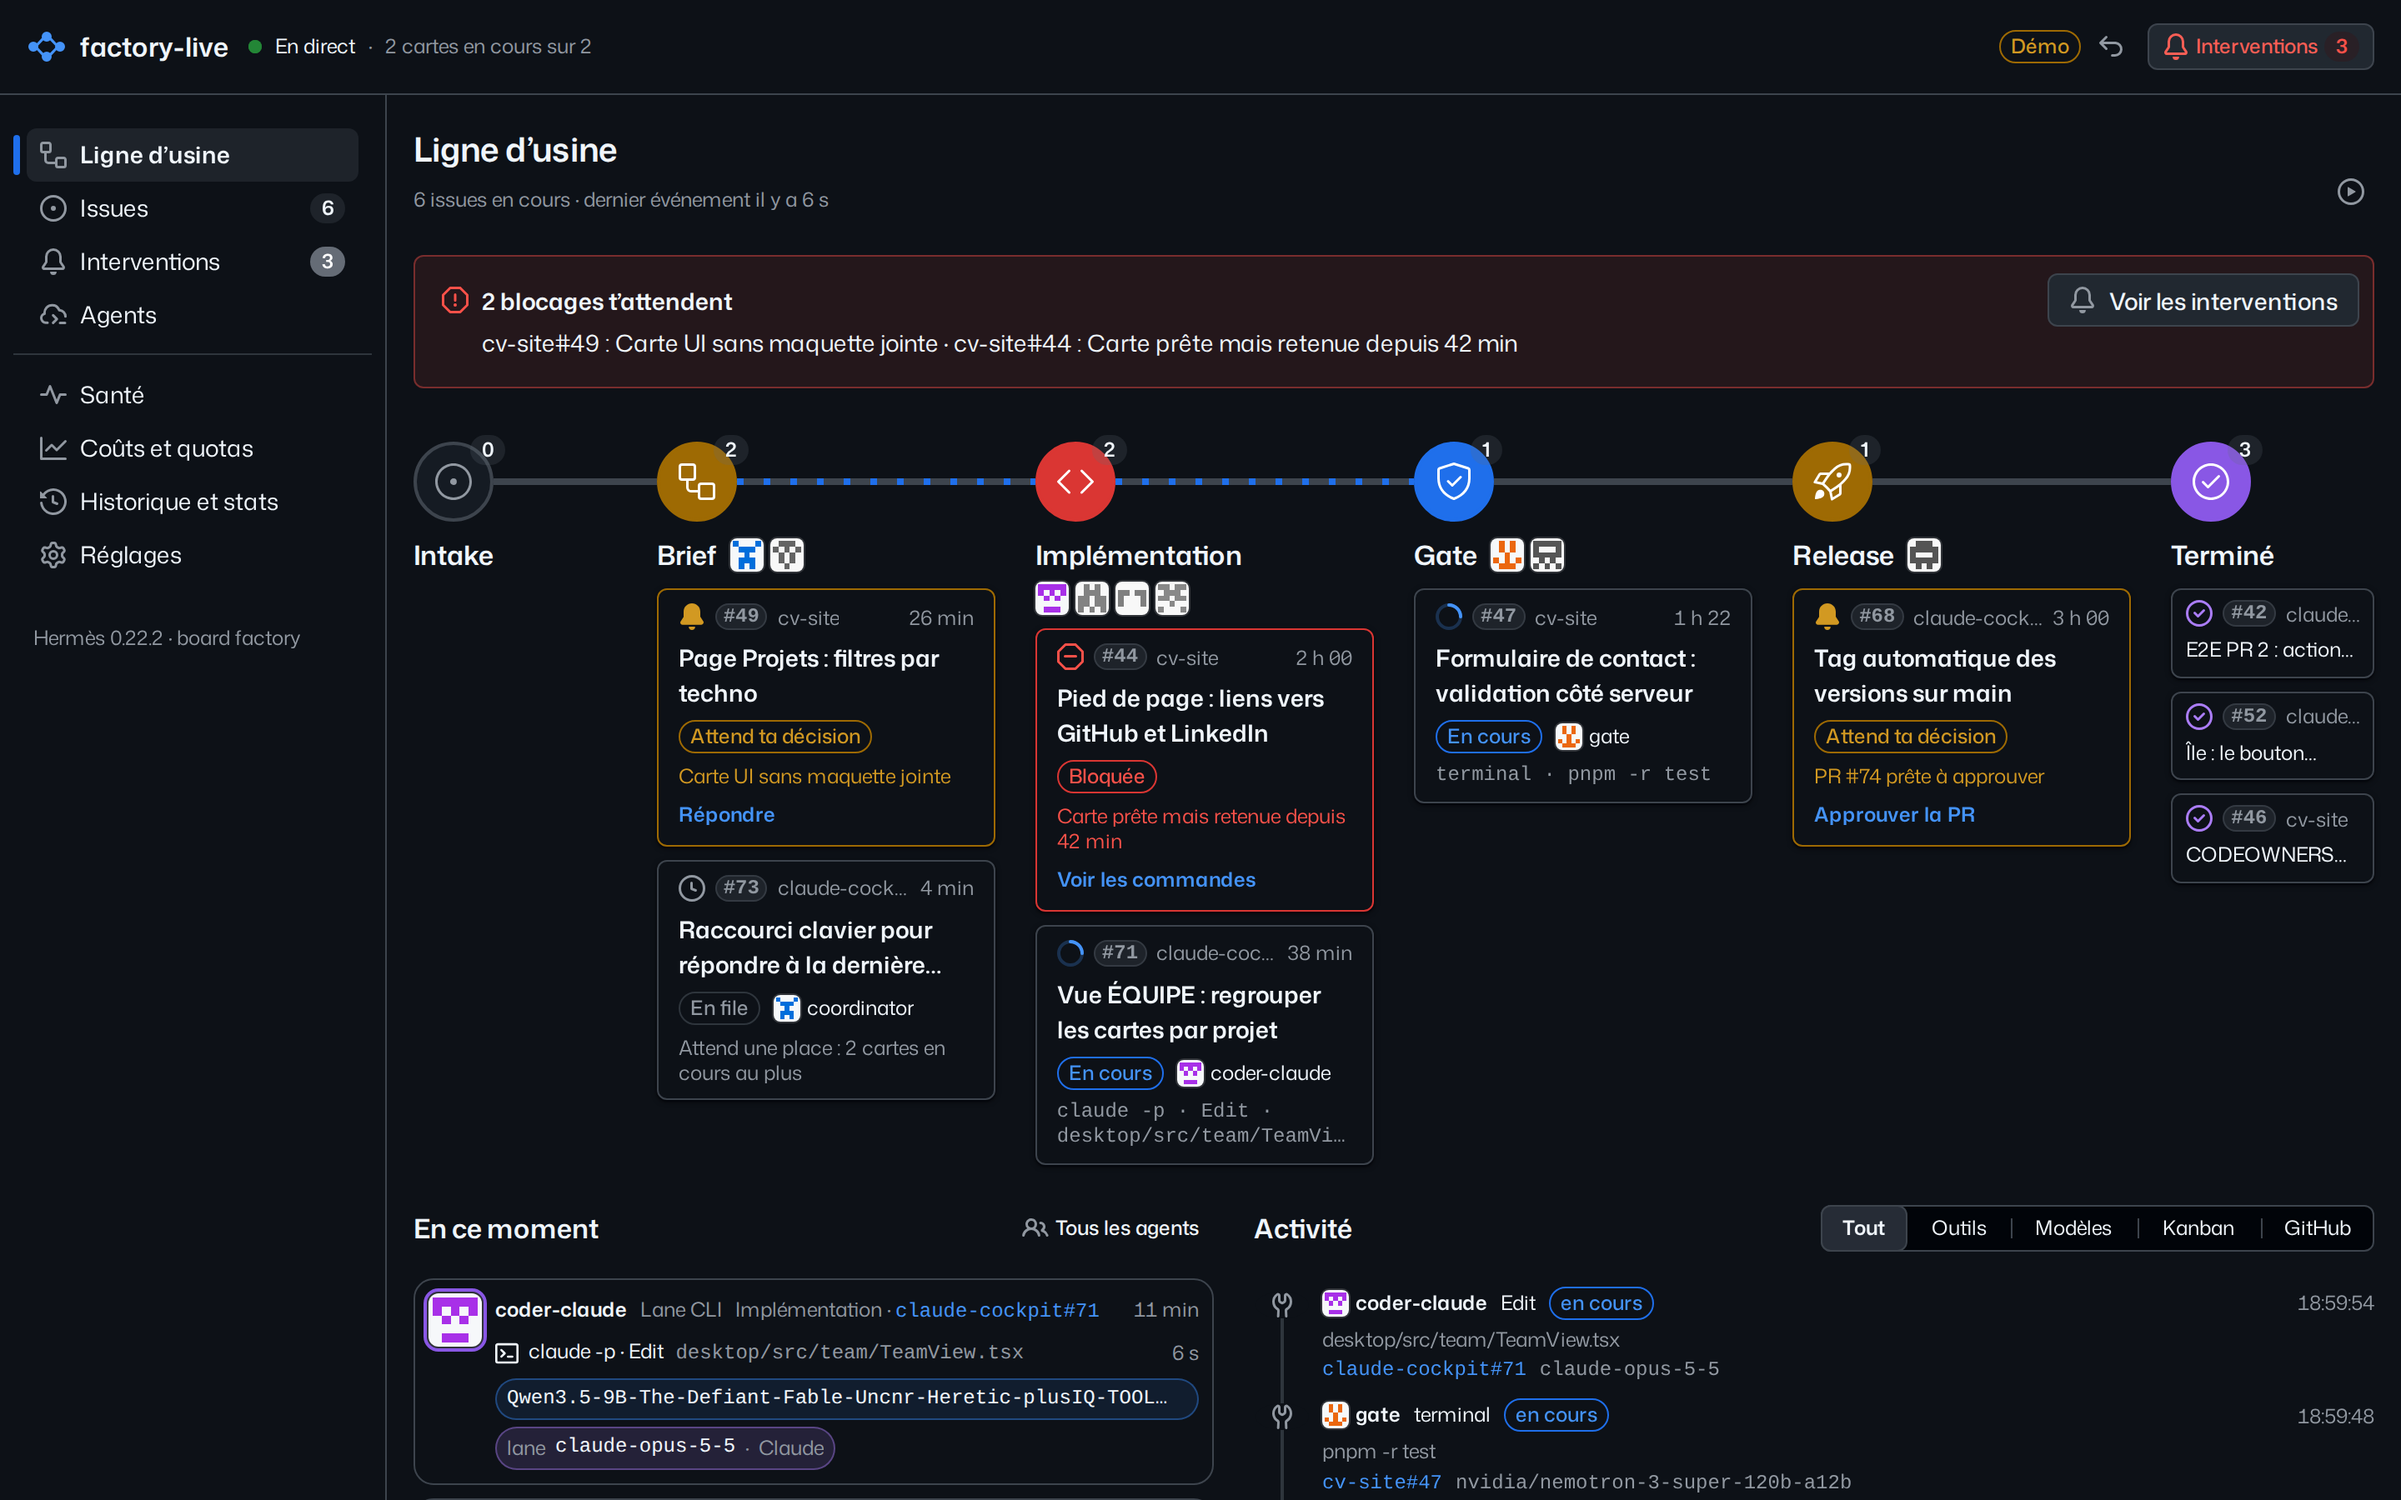
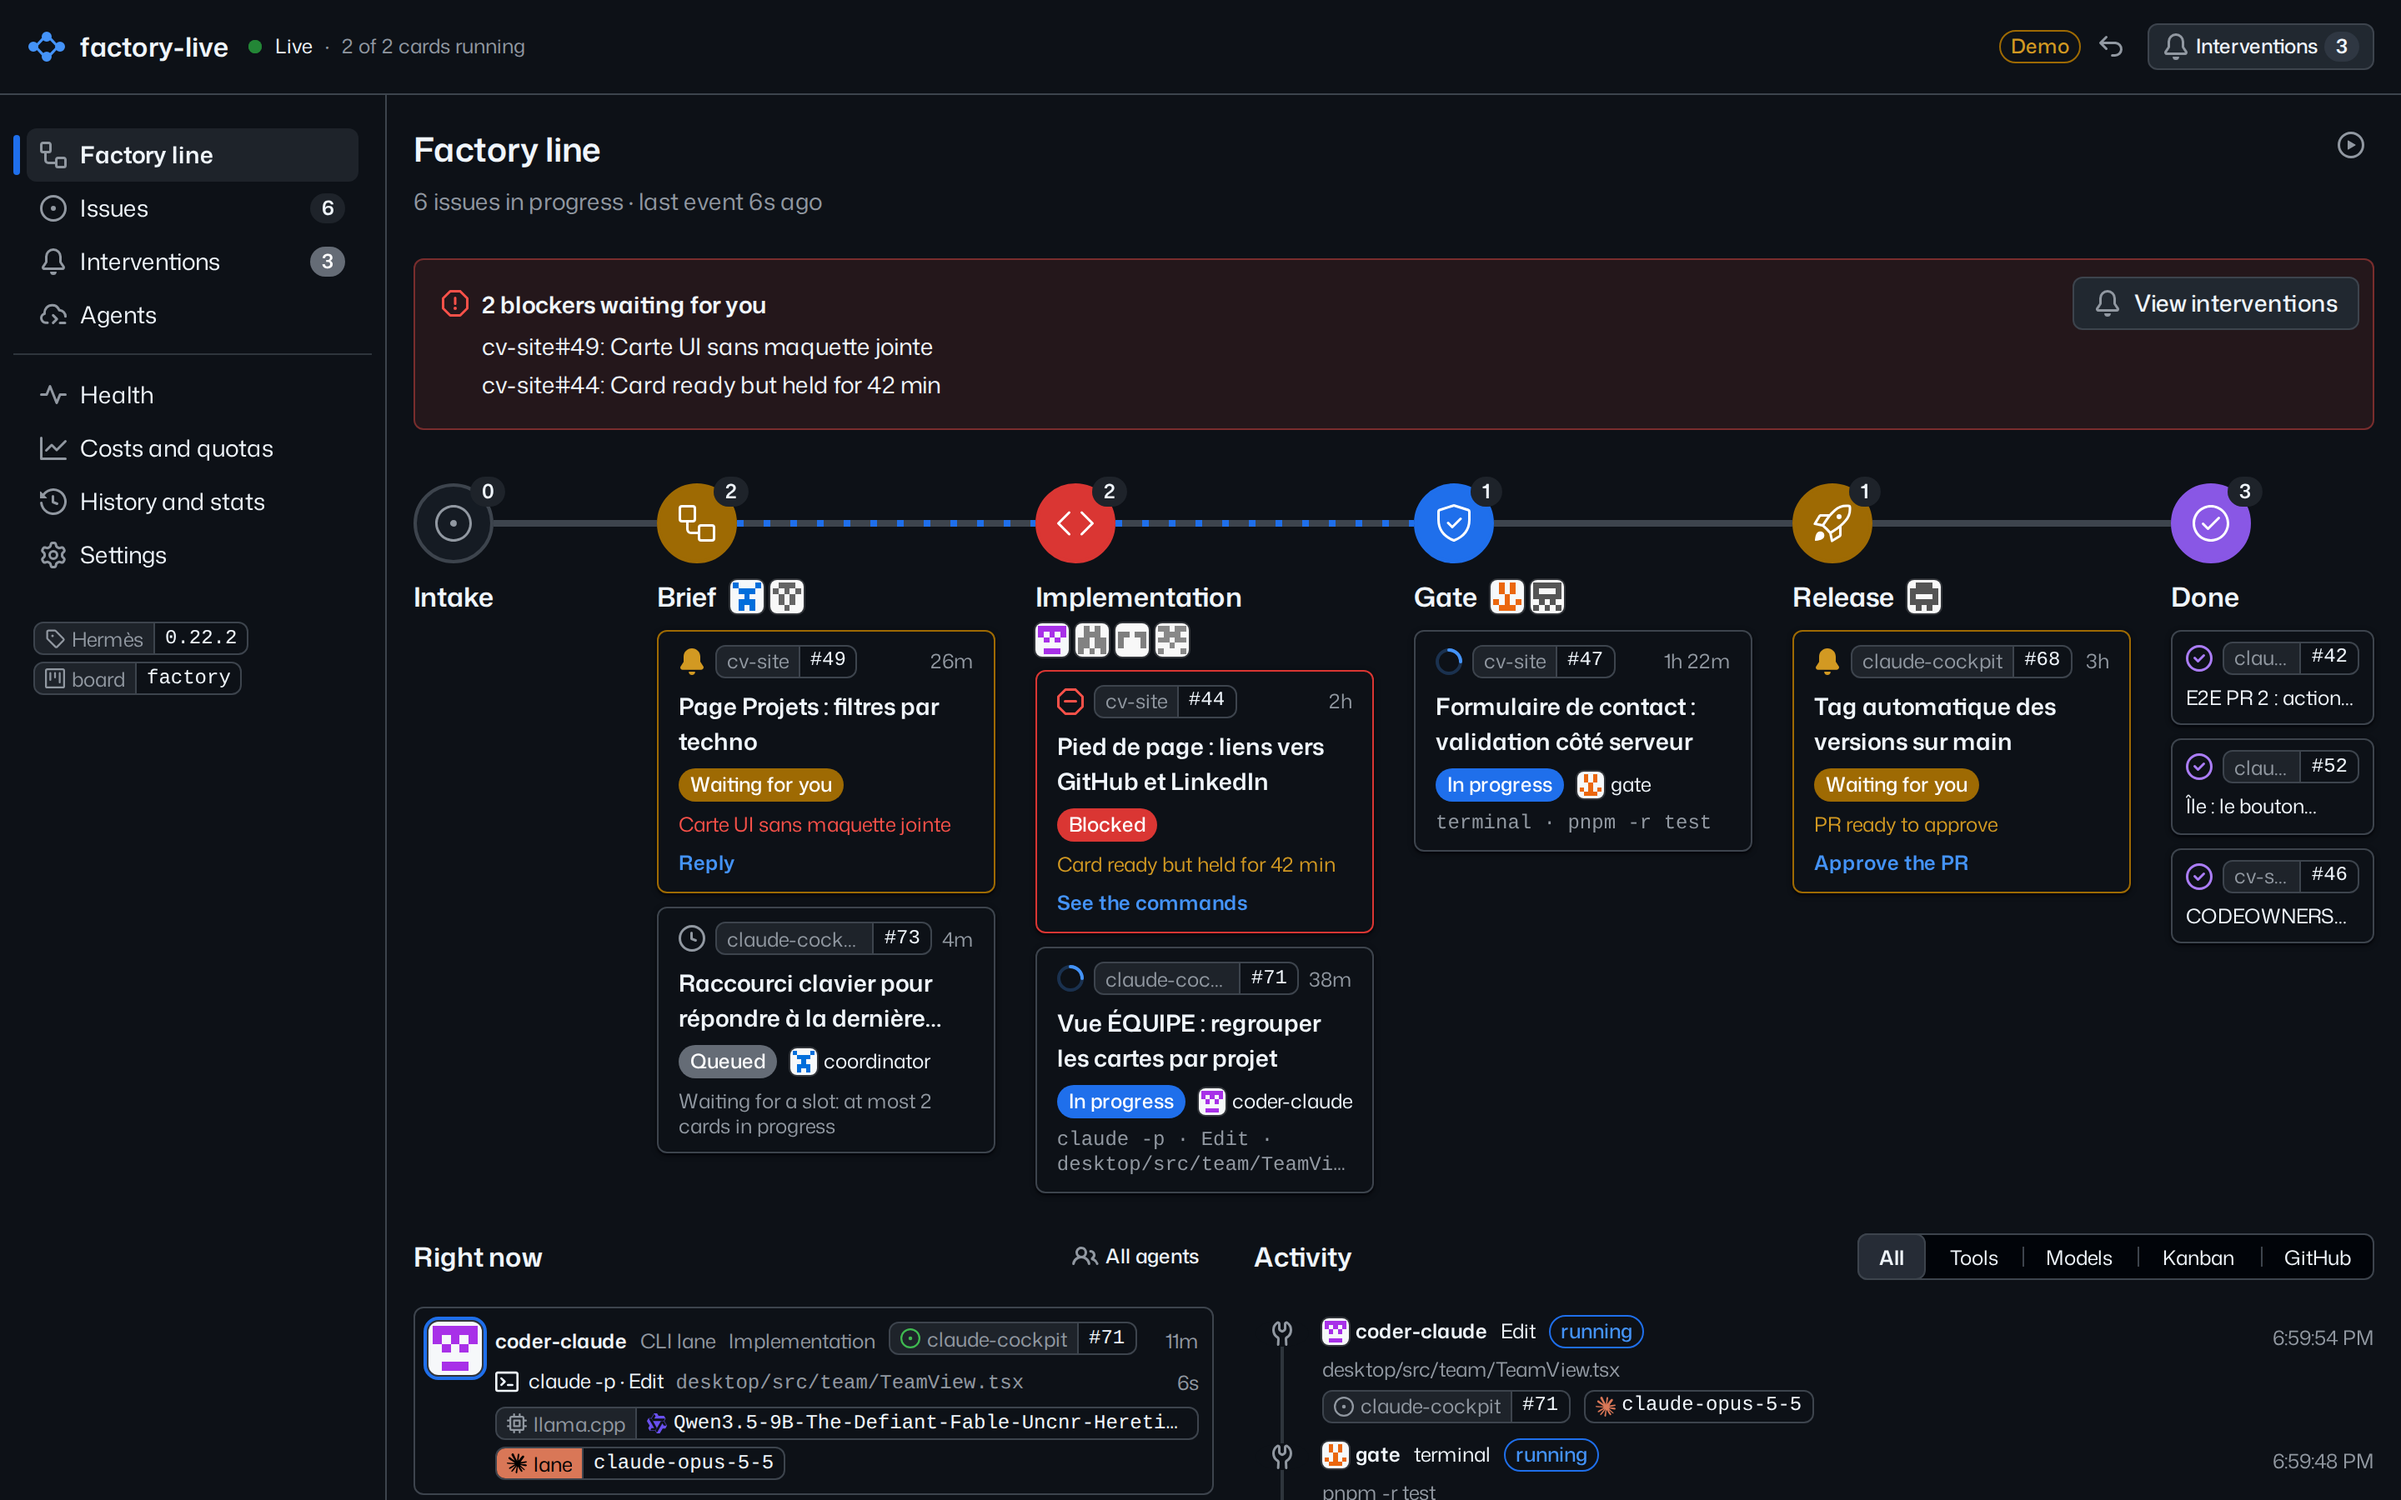
Site bilingue jusqu'aux captures : l'app en anglais sur la page anglaise, en français sur la française
- site/capture.mjs : une passe par langue (langue de l'app et du navigateur), captures rangées dans
  site/src/img/en et site/src/img/fr, README anglais (docs/factory-live.png) et français
  (docs/factory-live.fr.png) ;
- build et page : chaque page pointe sur les captures et l'aperçu Open Graph de sa langue ;
- la démo s'ouvre dans la langue de la page d'où l'on vient (factory-live:locale), test à l'appui
  avec un navigateur réglé sur l'autre langue.

Claude-Session: https://claude.ai/code/session_01YVsMr4jyrCnWCivWGfEo6N

diff --git a/site/test/site.spec.ts b/site/test/site.spec.ts
@@ -7,8 +7,22 @@ import type { Page } from '@playwright/test';
  * déborde, chaque lien mène quelque part, les onglets et la glissière marchent, la démo s'ouvre.
  */
 const PAGES = [
-  { path: '', lang: 'en', cta: 'Try the live demo', other: 'Français', otherLang: 'fr' },
-  { path: 'fr/', lang: 'fr', cta: 'Essayer la démo', other: 'English', otherLang: 'en' },
+  {
+    path: '',
+    lang: 'en',
+    cta: 'Try the live demo',
+    other: 'Français',
+    otherLang: 'fr',
+    demoHeading: 'Factory line',
+  },
+  {
+    path: 'fr/',
+    lang: 'fr',
+    cta: 'Essayer la démo',
+    other: 'English',
+    otherLang: 'en',
+    demoHeading: 'Ligne d’usine',
+  },
 ] as const;
 
 /** Erreurs de la page : console, exceptions, requêtes du site en échec ou en 4xx/5xx. */
@@ -248,12 +262,18 @@ for (const site of PAGES) {
       await expect(page.locator('html')).toHaveAttribute('lang', site.otherLang);
     });
 
-    test('le bouton de la démo ouvre la vraie app, sans service worker', async ({ page }) => {
+    test('le bouton de la démo ouvre la vraie app dans la langue de la page, sans service worker', async ({
+      page,
+    }) => {
       const errors = watchErrors(page);
+      // Le navigateur parle l'autre langue : c'est la page qui choisit celle de la démo.
+      await page.addInitScript((lang) => {
+        Object.defineProperty(navigator, 'language', { get: () => lang });
+      }, site.otherLang);
       await page.goto(site.path);
       await page.getByRole('link', { name: site.cta }).first().click();
       await expect(page).toHaveURL(/\/factory-live\/demo\/$/);
-      await expect(page.getByRole('heading', { level: 1, name: 'Ligne d’usine' })).toBeVisible();
+      await expect(page.getByRole('heading', { level: 1, name: site.demoHeading })).toBeVisible();
       const workers = await page.evaluate(async () =>
         'serviceWorker' in navigator
           ? (await navigator.serviceWorker.getRegistrations()).length

diff --git a/site/src/site.js b/site/src/site.js
@@ -45,6 +45,22 @@
     });
   }
 
+  /**
+   * La démo s'ouvre dans la langue de la page : l'app lit `factory-live:locale` (sa langue choisie
+   * dans Réglages) avant celle du navigateur. Sans script ou sans stockage, elle suit le navigateur.
+   */
+  const remember = (event) => {
+    const link = event.target instanceof Element ? event.target.closest('a[href]') : null;
+    if (!link || !/(^|\/)demo\/(#|$)/.test(link.getAttribute('href') ?? '')) return;
+    try {
+      localStorage.setItem('factory-live:locale', root.lang === 'fr' ? 'fr' : 'en');
+    } catch {
+      // Stockage indisponible (navigation privée, aperçu) : la démo suit la langue du navigateur.
+    }
+  };
+  document.addEventListener('click', remember);
+  document.addEventListener('auxclick', remember);
+
   /** La glissière de « Comment ça marche » : une étape, son texte, son chemin dans le schéma. */
   const how = document.querySelector('.how');
   const range = how?.querySelector('.stage-range');

diff --git a/docs/RUNBOOK.md b/docs/RUNBOOK.md
@@ -59,12 +59,12 @@ Une capture qui change exprès : la même commande avec `npm run e2e:captures --
 
 `site/` construit la page d'accueil (anglais, `fr/`) et la démo de l'app dans `site/dist`, servi sous `/factory-live/` comme sur GitHub Pages :
 
-| Besoin               | Commande                                                                                     |
-| -------------------- | -------------------------------------------------------------------------------------------- |
-| Construire           | `npm run site:build`                                                                         |
-| Prévisualiser        | `npm run site:preview`, puis http://127.0.0.1:4195/factory-live/                             |
-| Tester               | `npm run site:test` (WebKit : la commande des e2e ci-dessus, `-c site/playwright.config.ts`) |
-| Refaire les captures | la commande ci-dessous, puis relire `site/src/img/` et `docs/factory-live.png`               |
+| Besoin               | Commande                                                                                             |
+| -------------------- | ---------------------------------------------------------------------------------------------------- |
+| Construire           | `npm run site:build`                                                                                 |
+| Prévisualiser        | `npm run site:preview`, puis http://127.0.0.1:4195/factory-live/                                     |
+| Tester               | `npm run site:test` (WebKit : la commande des e2e ci-dessus, `-c site/playwright.config.ts`)         |
+| Refaire les captures | la commande ci-dessous, puis relire `site/src/img/en`, `site/src/img/fr` et `docs/factory-live*.png` |
 
 ```sh
 docker run --rm --ipc=host --user "$(id -u):$(id -g)" -e HOME=/tmp \

diff --git a/README.fr.md b/README.fr.md
@@ -28,7 +28,7 @@
 
 </div>
 
-<p align="center"><img src="docs/factory-live.png" alt="factory-live sur un écran d’ordinateur : la ligne d’usine de l’intake à terminé, une boîte par issue avec son état et son agent, deux blocages qui attendent une décision, et ce que fait chaque agent en ce moment"></p>
+<p align="center"><img src="docs/factory-live.fr.png" alt="factory-live sur un écran d’ordinateur : la ligne d’usine de l’intake à terminé, une boîte par issue avec son état et son agent, deux blocages qui attendent une décision, et ce que fait chaque agent en ce moment"></p>
 
 [site-badge]: https://img.shields.io/badge/site-code--my--life.github.io-000000?style=flat
 [site]: https://code-my-life.github.io/factory-live/fr/
